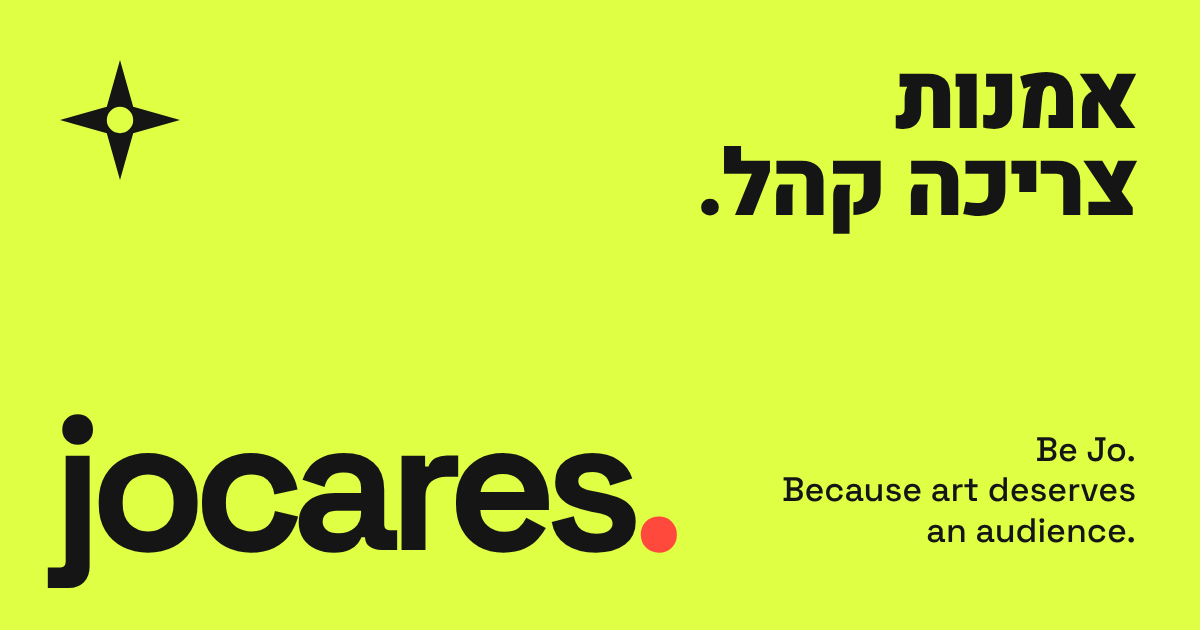
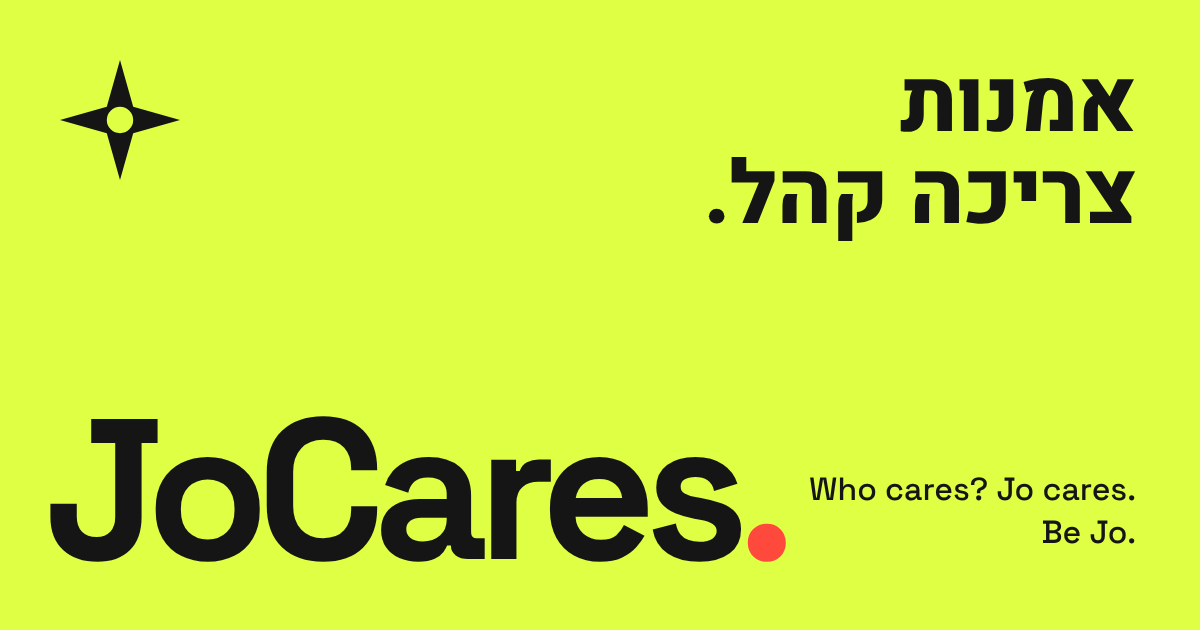
Write the name as JoCares so it reads as Jo cares
Capital C marks where 'cares' begins. Updated logo, titles, share image,
posters and emails. Internal identifiers stay lowercase.

Claude-Session: https://claude.ai/code/session_01VYgooH9cKLj42ZoaGovwUX

diff --git a/encore/src/views/content.js b/encore/src/views/content.js
@@ -52,7 +52,7 @@ function creatorCard(c, goal) {
     <div><b>${s.title}</b><span class="meta">${days(s.delivery_days)} · ${KIND_LABEL[TEMPLATES[s.template].kind]}</span></div>
     <b class="price-tag">${money(s.price_agorot)}</b>
   </div>
-  <p class="meta">${c.stats.completed ? `${c.stats.completed} עבודות הושלמו · ${Math.round((c.stats.on_time / c.stats.completed) * 100)}% בזמן` : "חדש/ה ב-Jocares"}${c.services.length === 2 ? " · ועוד שירות אחד" : c.services.length > 2 ? ` · ועוד ${c.services.length - 1} שירותים` : ""}</p>
+  <p class="meta">${c.stats.completed ? `${c.stats.completed} עבודות הושלמו · ${Math.round((c.stats.on_time / c.stats.completed) * 100)}% בזמן` : "חדש/ה ב-JoCares"}${c.services.length === 2 ? " · ועוד שירות אחד" : c.services.length > 2 ? ` · ועוד ${c.services.length - 1} שירותים` : ""}</p>
   <a class="btn ghost block" href="/creators/${c.user_id}${goal ? `?goal=${goal}` : ""}">לפרופיל ולהזמנה</a>
 </article>`;
 }
@@ -169,7 +169,7 @@ export function orderNewPage(ctx, { s, creator, artistName, campaigns, goal }, o
       <ul class="facts">${lic.points.map((p) => html`<li>${p}</li>`)}</ul>
       <div class="total"><span>לתשלום</span><b>${money(split.price)}</b></div>
       <p class="note">הסכום נתפס בכרטיס ונגבה רק כשהעבודה מאושרת. אם היוצר לא מאשר תוך ${days(config.acceptWindowDays)} או מסרב, לא תחויבו.
-        היוצר מקבל ${money(split.creator)} ו-Jocares ${money(split.fee)}.</p>
+        היוצר מקבל ${money(split.creator)} ו-JoCares ${money(split.fee)}.</p>
     </div>
     <label class="check"><input type="checkbox" name="rights" required> יש לי זכות להעביר ליוצר את החומרים והמוזיקה לצורך העבודה</label>
     <p class="note">היוצר רשאי להביע דעה כנה. אנחנו לא מוכרים מחמאות.</p>
@@ -287,7 +287,7 @@ ${linkInfo
 <details class="card">
   <summary>התנאים שסוכמו</summary>
   <ul class="facts">
-    <li>מחיר: ${money(o.price_agorot)} · ליוצר ${money(o.creator_amount_agorot)} · Jocares ${money(o.fee_agorot)}</li>
+    <li>מחיר: ${money(o.price_agorot)} · ליוצר ${money(o.creator_amount_agorot)} · JoCares ${money(o.fee_agorot)}</li>
     <li>מה מקבלים: ${o.terms.deliverable}</li>
     <li>אספקה: ${days(o.terms.delivery_days)} מהאישור${o.accepted_at ? ` (עד ${showDate(o.due_at)})` : ""}</li>
     <li>תיקונים: ${o.terms.revisions} (נשארו ${o.revisions_left})</li>
@@ -421,7 +421,7 @@ function profileSetup(ctx, opts) {
   <h1>מרוויחים מיצירת תוכן לאמנים</h1>
   <p class="lead">לא צריך אלפי עוקבים. צריך לדעת לספר סיפור, לצלם, או להמליץ על מוזיקה שאוהבים.</p>
   <div class="card">${profileForm(ctx)}</div>
-  <p class="note">אחר כך בוחרים שירות מתבנית וקובעים מחיר. Jocares לוקחת ${config.contentFeeBps / 100}% רק מעבודות שהושלמו.</p>
+  <p class="note">אחר כך בוחרים שירות מתבנית וקובעים מחיר. JoCares לוקחת ${config.contentFeeBps / 100}% רק מעבודות שהושלמו.</p>
 </section>`,
     opts
   );
@@ -456,7 +456,7 @@ export function serviceForm(ctx, { s, template }, opts) {
   <form method="post" action="${s ? `/creator/services/${s.id}/edit` : "/creator/services/new"}" class="stack">${csrfField(ctx)}
     <input type="hidden" name="template" value="${v.template}">
     <label class="field big-field">מחיר (₪)<input name="price" type="number" min="10" step="1" required inputmode="numeric" value="${v.price_agorot ? v.price_agorot / 100 : ""}" data-service-price data-fee-bps="${config.contentFeeBps}" autofocus></label>
-    <p class="hint" data-service-net>Jocares לוקחת ${config.contentFeeBps / 100}% רק מעבודות שהושלמו.</p>
+    <p class="hint" data-service-net>JoCares לוקחת ${config.contentFeeBps / 100}% רק מעבודות שהושלמו.</p>
     <label class="field">שם השירות<input name="title" value="${v.title}" required maxlength="80"></label>
     <label class="field">מה האמן מקבל<textarea name="deliverable" rows="2" required maxlength="300">${v.deliverable}</textarea></label>
     <div class="row2">

diff --git a/encore/src/views/artist.js b/encore/src/views/artist.js
@@ -33,7 +33,7 @@ ${list.length
   ${stat(money(totals.revenue), "הכנסות שנוצרו")}
   ${stat(totals.first_time, "קנו ממך לראשונה דרכנו", "", )}
 </div>
-<p class="note">"קנו לראשונה" = רוכשים שזו הרכישה הראשונה שלהם ממך דרך Jocares. ייתכן שהם כבר הכירו אותך מקודם.</p>
+<p class="note">"קנו לראשונה" = רוכשים שזו הרכישה הראשונה שלהם ממך דרך JoCares. ייתכן שהם כבר הכירו אותך מקודם.</p>
 <ul class="list cards">
   ${list.map(
     (c) => html`<li>
@@ -96,7 +96,7 @@ export function newForm(ctx, { v, found = [], error = "" }, opts) {
   <form method="post" action="/artist/new/preview" class="stack" enctype="multipart/form-data" data-busy="מעלים…">
     ${csrfField(ctx)}
     <fieldset class="seg ticketing" data-ticketing><legend class="field">איך מוכרים את הכרטיסים?</legend>
-      <label><input type="radio" name="ticketing" value="jocares" ${!["coupon", "sim"].includes(v.ticketing) ? html`checked` : ""}> Jocares מוכרת (מומלץ)</label>
+      <label><input type="radio" name="ticketing" value="jocares" ${!["coupon", "sim"].includes(v.ticketing) ? html`checked` : ""}> JoCares מוכרת (מומלץ)</label>
       <label><input type="radio" name="ticketing" value="coupon" ${v.ticketing === "coupon" ? html`checked` : ""}> יש לי כבר קופה</label>
     </fieldset>
     <div class="ticketing-opt" data-when="jocares">
@@ -127,7 +127,7 @@ export function newForm(ctx, { v, found = [], error = "" }, opts) {
       <p class="hint" data-suggest>טיפ: תגמול של כ-20% מהמחיר מושך יותר מקדמים.</p>
       <div class="split" data-split data-fee-bps="${config.feeBps}" aria-live="polite">
         <div><span>מקדם</span><b data-s="reward">—</b></div>
-        <div><span>Jocares (${config.feeBps / 100}%)</span><b data-s="fee">—</b></div>
+        <div><span>JoCares (${config.feeBps / 100}%)</span><b data-s="fee">—</b></div>
         <div class="you"><span>נשאר לכם</span><b data-s="artist">—</b></div>
       </div>
       <p class="note">משלמים רק על כרטיסים שנמכרו דרך מקדמים. על מכירות אחרות אין עמלה.</p>
@@ -169,7 +169,7 @@ export function previewPage(ctx, { c, form }, opts) {
   </article>
   <div class="split static">
     <div><span>מקדם</span><b>${money(s.reward)}</b></div>
-    <div><span>Jocares</span><b>${money(s.fee)}</b></div>
+    <div><span>JoCares</span><b>${money(s.fee)}</b></div>
     <div class="you"><span>נשאר לכם מכל כרטיס</span><b>${money(s.artist)}</b></div>
   </div>
   ${c.promo_limit ? html`<p class="muted center">עד ${c.promo_limit} כרטיסים דרך מקדמים.</p>` : ""}
@@ -240,7 +240,7 @@ ${["ended", "cancelled"].includes(c.status)
   : html`
 <section class="card">
   <h2>תגמול לכרטיס</h2>
-  <div class="split static"><div><span>מקדם</span><b>${money(s.reward)}</b></div><div><span>עמלת Jocares</span><b>${money(s.fee)}</b></div><div class="you"><span>נשאר לכם</span><b>${money(s.artist)}</b></div></div>
+  <div class="split static"><div><span>מקדם</span><b>${money(s.reward)}</b></div><div><span>עמלת JoCares</span><b>${money(s.fee)}</b></div><div class="you"><span>נשאר לכם</span><b>${money(s.artist)}</b></div></div>
   <form method="post" action="/artist/c/${c.id}/reward" class="inline">
     ${csrfField(ctx)}
     <input name="reward" type="number" min="1" step="1" value="${c.reward_agorot / 100}" inputmode="numeric" aria-label="תגמול חדש בשקלים">

diff --git a/encore/src/views/public.js b/encore/src/views/public.js
@@ -153,7 +153,7 @@ export function showPage(ctx, { c, referrer, link, stats, buyable, left = null }
         ? html`<p class="muted">הכרטיסים אזלו.</p>`
         : buyable
         ? html`<a class="btn big block" href="/s/${c.id}/buy">לרכישת כרטיסים</a>${left !== null && left <= 20 ? html`<p class="note">נשארו ${left} כרטיסים.</p>` : ""}`
-        : html`<p class="muted">${c.status === "cancelled" ? "ההופעה בוטלה." : "המכירה דרך Jocares סגורה כרגע."}</p>
+        : html`<p class="muted">${c.status === "cancelled" ? "ההופעה בוטלה." : "המכירה דרך JoCares סגורה כרגע."}</p>
                ${c.source_url ? html`<a class="btn ghost block" href="${c.source_url}" rel="noopener nofollow">לאתר ההופעה</a>` : ""}`}
     </div>
 
@@ -342,9 +342,9 @@ export function welcomeLanding(ctx, { shows, google }, opts) {
     "",
     html`
 <section class="lp-hero">
-  <p class="eyebrow" dir="ltr" lang="en">jocares. · Be Jo.</p>
+  <p class="eyebrow" dir="ltr" lang="en">JoCares. · Be Jo.</p>
   <h1 class="display">אמנות<br>צריכה קהל.</h1>
-  <p class="lead">Jocares מחברת בין אמנים לאנשים שאוהבים אותם. משתפים הופעה עם החברים, ומרוויחים מכל כרטיס שנמכר בזכותכם.</p>
+  <p class="lead">JoCares מחברת בין אמנים לאנשים שאוהבים אותם. משתפים הופעה עם החברים, ומרוויחים מכל כרטיס שנמכר בזכותכם.</p>
   <div class="lp-ctas">
     <a class="btn big acid" href="${join("/shows")}"><span lang="en" dir="ltr">Be Jo.</span> אני רוצה להצטרף</a>
     <a class="btn big ghost" href="${join("/grow")}">אני אמן/ית</a>
@@ -366,7 +366,7 @@ export function welcomeLanding(ctx, { shows, google }, opts) {
   <p class="muted">דוגמה: כרטיס ב-<span class="num">₪80</span></p>
   <div class="split static lp-split">
     <div><span>לג׳וקר שהביא את הקונה</span><b>₪20</b></div>
-    <div><span>Jocares</span><b>₪4</b></div>
+    <div><span>JoCares</span><b>₪4</b></div>
     <div class="you"><span>לאמן</span><b>₪56</b></div>
   </div>
   <p class="note">האמן קובע את התגמול. הסכום מוצג על כל הופעה לפני ששיתפתם משהו.</p>
@@ -421,13 +421,13 @@ export function pilotPage(ctx, { next }, opts) {
 <section class="narrow card">
   <p class="eyebrow">פיילוט סגור</p>
   <h1>כמעט בפנים</h1>
-  <p class="muted">Jocares נמצאת כרגע בפיילוט עם קבוצה קטנה של אמנים וג׳וקרים. הכניסו את קוד הגישה שקיבלתם.</p>
+  <p class="muted">JoCares נמצאת כרגע בפיילוט עם קבוצה קטנה של אמנים וג׳וקרים. הכניסו את קוד הגישה שקיבלתם.</p>
   <form method="post" action="/pilot" class="stack">
     ${csrfField(ctx)}<input type="hidden" name="next" value="${next}">
     <label class="field">קוד גישה<input name="code" required autocomplete="off" autocapitalize="off" spellcheck="false" dir="ltr" autofocus></label>
     <button class="btn big block">המשך</button>
   </form>
-  <p class="center note"><a href="/">מה זה Jocares?</a></p>
+  <p class="center note"><a href="/">מה זה JoCares?</a></p>
 </section>`,
     opts
   );

diff --git a/encore/src/views/kit.js b/encore/src/views/kit.js
@@ -106,7 +106,7 @@ const BELL = raw(`<svg width="22" height="22" viewBox="0 0 24 24" fill="none" st
 export function layout(ctx, title, body, { unread = 0, isArtist = false, isCreator = false, wide = false, description = "", og = {}, noindex = false } = {}) {
   const abs = (u) => (/^https?:\/\//.test(u) ? u : `${ctx.origin ?? ""}${u}`);
   const desc = description || "אמנות צריכה קהל. בוחרים הופעה, משתפים, ומרוויחים מכל כרטיס שנמכר בזכותכם.";
-  const ogTitle = og.title || (title ? `${title} · jocares.` : "jocares. · אמנות צריכה קהל");
+  const ogTitle = og.title || (title ? `${title} · JoCares.` : "JoCares. · אמנות צריכה קהל");
   const u = ctx.user;
   const nav = [
     ["/shows", "הופעות"],
@@ -122,10 +122,10 @@ export function layout(ctx, title, body, { unread = 0, isArtist = false, isCreat
 <head>
 <meta charset="utf-8">
 <meta name="viewport" content="width=device-width, initial-scale=1, viewport-fit=cover">
-<title>${title ? `${title} · jocares.` : "jocares. · אמנות צריכה קהל"}</title>
+<title>${title ? `${title} · JoCares.` : "JoCares. · אמנות צריכה קהל"}</title>
 <meta name="description" content="${desc}">${noindex ? html`
 <meta name="robots" content="noindex, nofollow">` : ""}
-<meta property="og:site_name" content="jocares.">
+<meta property="og:site_name" content="JoCares.">
 <meta property="og:type" content="${og.type || "website"}">
 <meta property="og:locale" content="he_IL">
 <meta property="og:title" content="${ogTitle}">
@@ -148,7 +148,7 @@ ${og.image ? "" : html`<meta property="og:image:width" content="1200"><meta prop
 ${config.isStaging ? html`<div class="staging-bar" role="note">סביבת בדיקה · הנתונים לדוגמה · אין כאן כסף אמיתי</div>` : ""}
 <header class="top">
   <div class="top-in">
-    <a href="/" class="logo" aria-label="Jocares, דף הבית">jocares<i aria-hidden="true">.</i></a>
+    <a href="/" class="logo" aria-label="JoCares, דף הבית">JoCares<i aria-hidden="true">.</i></a>
     <nav aria-label="ראשי">
       ${nav.map(([href, label]) => html`<a href="${href}"${(path === href || path.startsWith(href + "/")) ? raw(' aria-current="page"') : ""}>${label}</a>`)}
     </nav>
@@ -166,7 +166,7 @@ ${config.showLoginCodes && flash?.dev ? html`<div class="flash dev">${config.isS
 ${body}
 </main>
 <footer class="foot">
-  <p class="foot-big" dir="ltr">jocares.</p>
+  <p class="foot-big" dir="ltr">JoCares.</p>
   <p class="foot-tag" dir="ltr" lang="en">Who cares? Jo cares. Because art deserves an audience.</p>
   <nav aria-label="תחתון"><a href="/how">איך זה עובד</a><a href="/terms">תנאים ופרטיות</a></nav>
 </footer>

diff --git a/encore/src/mailer.js b/encore/src/mailer.js
@@ -1,14 +1,14 @@
 // שליחת מייל ו-SMS. הספק נבחר לפי המפתח שמוגדר בסביבה:
-//   מייל: BREVO_API_KEY (Brevo) או RESEND_API_KEY (Resend). שולח: MAIL_FROM, למשל "Jocares <hello@jocares.co.il>"
+//   מייל: BREVO_API_KEY (Brevo) או RESEND_API_KEY (Resend). שולח: MAIL_FROM, למשל "JoCares <hello@jocares.co.il>"
 //   SMS:  TWILIO_ACCOUNT_SID + TWILIO_AUTH_TOKEN + TWILIO_FROM (מספר או שם שולח, או MessagingServiceSid שמתחיל ב-MG)
 // בלי מפתח: בפיתוח ובבדיקות מודפס ליומן (וקוד הכניסה מוצג על המסך).
 import { config } from "./util.js";
 
-const fromHeader = () => process.env.MAIL_FROM || "Jocares <hello@jocares.example>";
+const fromHeader = () => process.env.MAIL_FROM || "JoCares <hello@jocares.example>";
 
 function parseFrom(v) {
   const m = /^\s*(.*?)\s*<([^>]+)>\s*$/.exec(v);
-  return m ? { name: m[1] || "Jocares", email: m[2] } : { name: "Jocares", email: v.trim() };
+  return m ? { name: m[1] || "JoCares", email: m[2] } : { name: "JoCares", email: v.trim() };
 }
 
 export const mailEnabled = () => !!(process.env.BREVO_API_KEY || process.env.RESEND_API_KEY);
@@ -64,7 +64,7 @@ export async function sendSms(phone, body, fetchImpl = fetch) {
 export async function sendLoginCode(addr, code) {
   const sent = await sendMail({
     to: addr,
-    subject: `הקוד שלך ל-Jocares: ${code}`,
+    subject: `הקוד שלך ל-JoCares: ${code}`,
     text: `הקוד שלך: ${code}\nהוא בתוקף ל-10 דקות. אם לא ביקשת אותו, אפשר להתעלם מההודעה.`,
   });
   if (sent) return { sent: true };

diff --git a/encore/src/server.js b/encore/src/server.js
@@ -325,7 +325,7 @@ export function createApp(db, { baseUrl = process.env.PUBLIC_URL, fetchImpl = fe
     ctx.redirect("/");
   });
 
-  // ---------- הקופה של Jocares ----------
+  // ---------- הקופה של JoCares ----------
 
   const checkoutData = (ctx, c) => {
     const ref = refFor(ctx, c.id);
@@ -333,7 +333,7 @@ export function createApp(db, { baseUrl = process.env.PUBLIC_URL, fetchImpl = fe
   };
   const jocaresCampaign = (id) => {
     const c = campaignOr404(id);
-    if (c.provider !== "jocares") throw new UserError("ההופעה לא נמכרת דרך Jocares", 404);
+    if (c.provider !== "jocares") throw new UserError("ההופעה לא נמכרת דרך JoCares", 404);
     return c;
   };
   const ticketsUrl = (ctx, order) => `${origin(ctx)}/tickets/${order.token}`;
@@ -999,7 +999,7 @@ export function createApp(db, { baseUrl = process.env.PUBLIC_URL, fetchImpl = fe
 if (process.argv[1] && fileURLToPath(import.meta.url) === path.resolve(process.argv[1])) {
   const db = openDb();
   const port = Number(process.env.PORT ?? 3000);
-  http.createServer(createApp(db)).listen(port, () => console.log(`Jocares רץ על http://localhost:${port}`));
+  http.createServer(createApp(db)).listen(port, () => console.log(`JoCares רץ על http://localhost:${port}`));
   const tick = () => {
     try {
       const r = M.settle(db);

diff --git a/encore/src/domain/tickets.js b/encore/src/domain/tickets.js
@@ -1,4 +1,4 @@
-// הקופה של Jocares: מכירת כרטיסים, תשלום, כרטיס עם QR, החזרים וכניסה בדלת.
+// הקופה של JoCares: מכירת כרטיסים, תשלום, כרטיס עם QR, החזרים וכניסה בדלת.
 // כל מכירה ששולמה נכנסת למנוע השיוך והתגמולים (ingest.js) בדיוק כמו מכירה מספק חיצוני,
 // כך שהג׳וקרים מקבלים תגמול בלי שאף אחד יעשה שום דבר ידני.
 import crypto from "node:crypto";
@@ -311,7 +311,7 @@ const icsDate = (iso) => iso.replace(/[-:]/g, "").replace(/\.\d{3}/, "");
 export function ics(c, order, url) {
   const end = new Date(new Date(c.starts_at).getTime() + 3 * 3600000).toISOString();
   return [
-    "BEGIN:VCALENDAR", "VERSION:2.0", "PRODID:-//Jocares//Tickets//HE", "CALSCALE:GREGORIAN", "METHOD:PUBLISH",
+    "BEGIN:VCALENDAR", "VERSION:2.0", "PRODID:-//JoCares//Tickets//HE", "CALSCALE:GREGORIAN", "METHOD:PUBLISH",
     "BEGIN:VEVENT",
     `UID:jocares-order-${order.id}@jocares`,
     `DTSTAMP:${icsDate(clock.iso())}`,

diff --git a/encore/src/db.js b/encore/src/db.js
@@ -402,7 +402,7 @@ CREATE TABLE IF NOT EXISTS sim_orders (
   created_at    TEXT NOT NULL
 );
 
--- ---------- כרטוס של Jocares: הקופה שלנו ----------
+-- ---------- כרטוס של JoCares: הקופה שלנו ----------
 CREATE TABLE IF NOT EXISTS ticket_orders (
   id                INTEGER PRIMARY KEY,
   campaign_id       INTEGER NOT NULL REFERENCES campaigns(id),
@@ -486,7 +486,7 @@ function migrate(db) {
   add("referral_links", "coupon_code", "TEXT");
   add("referral_links", "coupon_registered_at", "TEXT");
   db.exec("CREATE UNIQUE INDEX IF NOT EXISTS referral_links_coupon ON referral_links(coupon_code) WHERE coupon_code IS NOT NULL");
-  // כרטוס של Jocares: קיבולת המקום וקישור סודי לסריקה בכניסה
+  // כרטוס של JoCares: קיבולת המקום וקישור סודי לסריקה בכניסה
   add("events", "capacity", "INTEGER");
   add("campaigns", "door_token", "TEXT");
   const missing = db.prepare("SELECT id FROM referral_links WHERE coupon_code IS NULL").all();

diff --git a/encore/test/tickets.test.js b/encore/test/tickets.test.js
@@ -200,7 +200,7 @@ class Browser {
   }
 }
 
-test("HTTP: אמן פותח הופעה בקופה של Jocares → ג׳וקר משתף → חבר קונה ומשלם → כרטיס עם QR → סריקה בדלת", async () => {
+test("HTTP: אמן פותח הופעה בקופה של JoCares → ג׳וקר משתף → חבר קונה ומשלם → כרטיס עם QR → סריקה בדלת", async () => {
   resetRateLimits();
   const server = http.createServer(createApp(db));
   await new Promise((r) => server.listen(0, r));
@@ -209,7 +209,7 @@ test("HTTP: אמן פותח הופעה בקופה של Jocares → ג׳וקר מ
     const a = new Browser(base);
     await a.login("noa@x.com", "נועה");
     await a.get("/artist/new/details");
-    assert.match(a.last, /Jocares מוכרת/);
+    assert.match(a.last, /JoCares מוכרת/);
     const show = { ...SHOW, title: "השקה", capacity: "100" };
     let r = await a.post("/artist/new/preview", show);
     r = await a.post("/artist/new", { ...show, publish: "1" });

diff --git a/encore/public/style.css b/encore/public/style.css
@@ -5,7 +5,7 @@
    ========================================================================== */
 
 :root {
-  /* מותג Jocares. (brand/BRAND_KIT.md) */
+  /* מותג JoCares. (brand/BRAND_KIT.md) */
   --jo-ink: #151515;
   --jo-paper: #EDECE4;
   --jo-acid: #DFFF45;
@@ -542,7 +542,7 @@ tr.unread td:first-child { box-shadow: inset -3px 0 0 var(--jo-red); }
 .code-big { font: 500 clamp(2rem, 9vw, 3rem)/1 var(--font-mono); letter-spacing: .06em; background: var(--jo-acid); color: #151515; padding: 14px 18px; display: inline-block; direction: ltr; }
 
 /* ==========================================================================
-   הקופה של Jocares: קנייה, כרטיס, כניסה, מכירות
+   הקופה של JoCares: קנייה, כרטיס, כניסה, מכירות
    ========================================================================== */
 .ticketing-opt { margin-top: -6px; }
 .checkout-show { display: flex; gap: 18px; align-items: flex-start; margin-bottom: 20px; }

diff --git a/encore/test/mailer.test.js b/encore/test/mailer.test.js
@@ -13,12 +13,12 @@ const capture = () => {
 test("Brevo: מייל נשלח עם המפתח בכותרת והשולח מפורק לשם ומייל", async () => {
   delete process.env.RESEND_API_KEY;
   process.env.BREVO_API_KEY = "test-key";
-  process.env.MAIL_FROM = "Jocares <hello@jocares.co.il>";
+  process.env.MAIL_FROM = "JoCares <hello@jocares.co.il>";
   const { calls, f } = capture();
   assert.equal(await sendMail({ to: "a@b.com", subject: "s", text: "t" }, f), true);
   assert.equal(calls[0].url, "https://api.brevo.com/v3/smtp/email");
   assert.equal(calls[0].init.headers["api-key"], "test-key");
-  assert.deepEqual(JSON.parse(calls[0].init.body).sender, { name: "Jocares", email: "hello@jocares.co.il" });
+  assert.deepEqual(JSON.parse(calls[0].init.body).sender, { name: "JoCares", email: "hello@jocares.co.il" });
 });
 
 test("בלי ספק מייל לא שולחים כלום", async () => {

diff --git a/encore/src/providers/jocares.js b/encore/src/providers/jocares.js
@@ -1,4 +1,4 @@
-// הקופה של Jocares: אנחנו ספק הכרטוס. הקונה קונה אצלנו, מקבל כרטיס עם QR, והמכירה נרשמת
+// הקופה של JoCares: אנחנו ספק הכרטוס. הקונה קונה אצלנו, מקבל כרטיס עם QR, והמכירה נרשמת
 // באותו מנוע שיוך ותגמולים כמו כל ספק אחר (tickets.js שולח אליו אירועים פנימיים).
 import { randomToken, UserError } from "../util.js";
 
@@ -15,6 +15,6 @@ export const jocaresProvider = {
 
   /** אירועים של הקופה נוצרים בתוך המערכת ולא מגיעים מבחוץ */
   verifyWebhook() {
-    throw new UserError("לקופה של Jocares אין webhooks חיצוניים", 404);
+    throw new UserError("לקופה של JoCares אין webhooks חיצוניים", 404);
   },
 };
